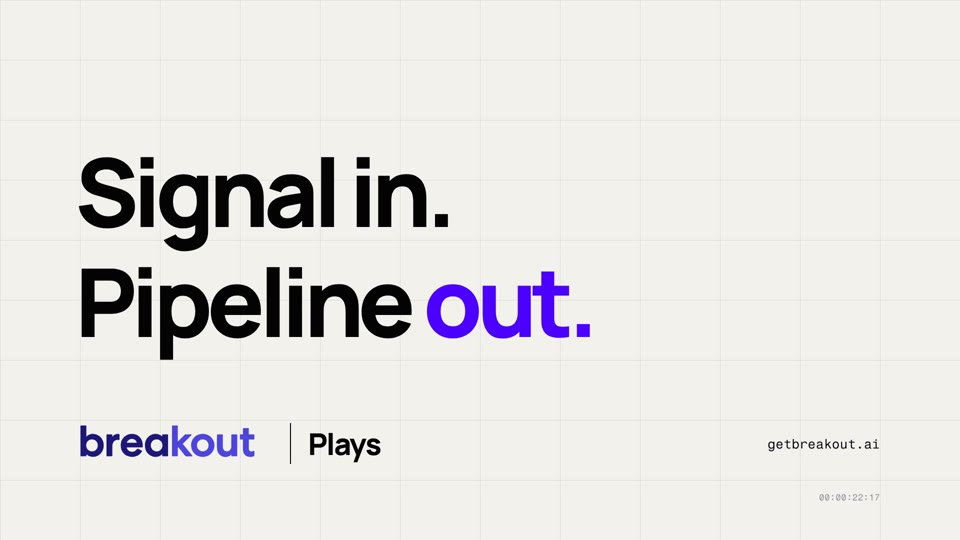
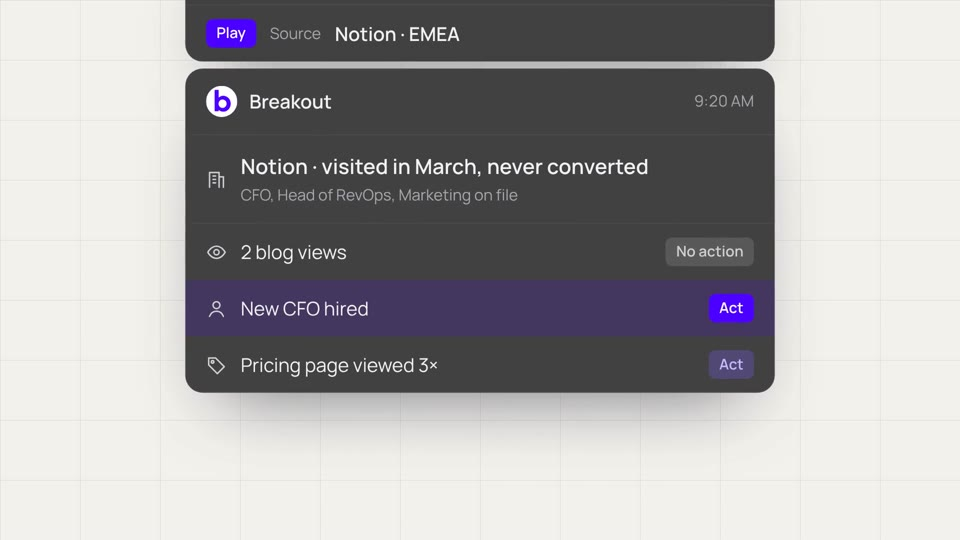
Plays launch round 2: just the cards, centred; no breadcrumbs or disclaimer; song from its first beat
Claude-Session: https://claude.ai/code/session_01KiAPnoACp1J2Pkh9Axh1Sx

diff --git a/videos/plays-launch/template.html b/videos/plays-launch/template.html
@@ -123,6 +123,10 @@
         .card .rw.sig, .card .rw.big { transition: none; }
         .card .row-hide { opacity: 0; }
         #flash { position: absolute; inset: 0; background: var(--ink); opacity: 0; }
+        /* just the cards: no words beside them, no index, timecode, disclaimer or email labels */
+        .word, #idx, #tc, #disc, #elabels { display: none !important; }
+        #cam .card { left: 620px; }
+        #cam #c-bk { left: 510px; }
       </style>
       <div id="root" data-composition-id="signal" data-width="1920" data-height="1080">
         <div id="gridH"></div><div id="gridV"></div>
@@ -267,14 +271,16 @@
 
           var cam = one("#cam");
           // [bar, focus rect in layout px, scale]: holds push in slowly, moves glide between cards
-          var CAMK = [[2.0, [160, 176, 680, 132], 1.5], [2.45, [160, 176, 680, 132], 1.58], [2.7, [160, 326, 680, 360], 1.38], [2.95, [160, 470, 680, 200], 1.68], [3.95, [160, 470, 680, 200], 1.74],
-                      [4.2, [160, 716, 680, 232], 1.55], [5.5, [160, 716, 680, 232], 1.63], [5.95, [0, 0, 1920, 1080], 1.0]];
+          var CAMK = [[2.0, [620, 176, 680, 132], 1.5], [2.45, [620, 176, 680, 132], 1.58], [2.7, [620, 326, 680, 360], 1.38], [2.95, [620, 470, 680, 200], 1.68], [3.95, [620, 470, 680, 200], 1.74],
+                      [4.2, [620, 716, 680, 232], 1.55], [5.5, [620, 716, 680, 232], 1.63], [5.95, [0, 0, 1920, 1080], 1.0]];
+          var PAIR = [-420, 0, 1];                                 // bars 6 to 8: the cards and the email side by side, centred together
           function camAt(t) {
             var b = t / BAR, k = CAMK;
-            function m(r, sc) { var cx = r[0] + r[2] / 2, cy = r[1] + r[3] / 2; return sc === 1 ? [0, 0, 1] : [(sc > 1.6 ? 615 : 650) - cx * sc, 560 - cy * sc, sc]; }
-            if (b < k[0][0] || b >= 6) return [0, 0, 1];
+            function m(r, sc) { var cx = r[0] + r[2] / 2, cy = r[1] + r[3] / 2; return sc === 1 ? [0, 0, 1] : [960 - cx * sc, 560 - cy * sc, sc]; }
+            if (b < k[0][0]) return [0, 0, 1];
+            if (b >= 6) return b < 8 ? PAIR : [0, 0, 1];
             for (var i = 0; i < k.length - 1; i++) if (b < k[i + 1][0]) {
-              var u = io((b - k[i][0]) / (k[i + 1][0] - k[i][0])), a = m(k[i][1], k[i][2]), c = m(k[i + 1][1], k[i + 1][2]);
+              var u = io((b - k[i][0]) / (k[i + 1][0] - k[i][0])), a = m(k[i][1], k[i][2]), c = i + 1 === k.length - 1 ? PAIR : m(k[i + 1][1], k[i + 1][2]);
               return [a[0] + (c[0] - a[0]) * u, a[1] + (c[1] - a[1]) * u, a[2] + (c[2] - a[2]) * u];
             }
             return [0, 0, 1];
@@ -293,7 +299,6 @@
             catch (e) { var d = one("#err"); d.textContent = "t=" + drv.t.toFixed(2) + " " + e.message + " | " + (e.stack || "").split("\n").slice(0, 3).join(" / "); d.style.display = "block"; }
           }
           function draw(t) {
-            if (on(t, 6, 8)) measure();   // measured live: fonts and layout are settled by then
             grid(t); index(t);
             var f = Math.floor(t * 30);
             tc.textContent = "00:00:" + pad(Math.floor(f / 30)) + ":" + pad(f % 30);
@@ -313,6 +318,7 @@
             // 02 / Play: the agent reads the account, card by card, then thinks
             var c = camAt(t);
             cam.style.transform = "translate(" + c[0].toFixed(2) + "px," + c[1].toFixed(2) + "px) scale(" + c[2].toFixed(4) + ")";
+            if (on(t, 6, 8)) measure();   // measured live, after this frame's camera: fonts and layout are settled by then
             snap(cRun, t, 2, 8); snap(cAcc, t, 2.5, 8);
             runChip.classList.toggle("on", t >= B(2.25));
             accLine.style.opacity = t >= B(2.62) ? 1 : 0;

diff --git a/docs/breakout-style.md b/docs/breakout-style.md
@@ -56,4 +56,5 @@ The films named in the verdicts now live as templates: `attention` → [`voice-l
 | 2026-11-11 | 23 | signals-launch (swiss-grid, v4) | 29.5 s: no headlines; a wordless pricing-page skeleton; a cleaner visitor card (logo, name, role; a listening row; each signal as a two-line row with an icon) with one signal every 1.2 s; one camera framing per beat with 0.18 s snaps instead of chasing tokens; tokens flash violet once fully typed || Closer. Owner: "use punchy electronic fred again type music instead of jazz. Add more color to the cursor cards -> like for eg -> how collaborative cursors look in figma. Fix the spacing on the signal cards. The agent opening should happen on the website while the cursor -> while Sarah is still browsing. It's happening right now. So you can remove the "Act now" thing from the card and transition to the same page visit -> where the agent is opening and acting. Then email." |
 | 2026-11-11 | 24 | signals-launch (swiss-grid, v5) | 28.6 s: a pink Figma-style multiplayer cursor and label; the signals card white with a pink outline and a coloured icon per signal, even 64 px rows; no "Act today"; the agent opens on the same page beside her card while she browses, then her cursor slides over to reply; hard cut to the email; a synthesised UK-house score (four-on-the-floor kick with pump, F minor chords, sub, vocal-like chops on each signal, a breakdown bar on the cut to the email) || The music. Owner: "make the music punchier, make it sound like a deep house track. avoid the treble heavy bell like beat" |
 | 2026-11-11 | 25 | signals-launch (swiss-grid, v5, deep house score) | Awaiting the owner's verdict. Same picture; the score rewritten as deep house: a heavier, rounder kick with a deeper pump (the bed ducks to 10 %), a rolling syncopated sub bassline, warm low-passed electric-piano stabs on F minor 9ths, a low pad, soft band-passed hats and shaker, a clap on 2 and 4; the vocal-like chops and the bright saw chords gone; a high-shelf cut on the master; the bell-like sound effects (glass ticks, chimes, sting) removed. Energy: 83 % under 150 Hz, almost nothing above 2 kHz | |
-| 2026-11-19 | 26 | plays-launch (swiss-grid, "Signal in. Pipeline out.") | Awaiting the owner's verdict. The approved Plays film, iterated: no "Breakout · Plays" small text; "Signal in. Pipeline out."; the detected changes (New CFO hired, Pricing page viewed 3×) at half speed with the camera closer; the owner's track (Sébastien Léger, "After That", 126 BPM, drop on bar 2) instead of the scratch bed, sfx kept. 26.7 s. Commercial track: internal only until licensed | |
+| 2026-11-19 | 26 | plays-launch (swiss-grid, "Signal in. Pipeline out.") | The approved Plays film, iterated: no "Breakout · Plays" small text; "Signal in. Pipeline out."; the detected changes (New CFO hired, Pricing page viewed 3×) at half speed with the camera closer; the owner's track (Sébastien Léger, "After That", 126 BPM, drop on bar 2) instead of the scratch bed, sfx kept. 26.7 s. Commercial track: internal only until licensed || Too much text around the cards. Owner: "remove the "reads", "thinks" etc text from the right and center align the cards so its just the cards with no text. Remove stuff like illustrative example, breadcrumbs. Start the soundtarck fromt he beginnng of the soundtrack" |
+| 2026-11-19 | 27 | plays-launch (round 2) | Awaiting the owner's verdict. Just the cards, centred: no "Reads." / "Thinks." / "Sends." / "Books.", no breadcrumbs, timecode, disclaimer or email labels; cards and email centred as a pair during the email; the song from its first beat on bar 0. 26.7 s | |

diff --git a/videos/plays-launch/README.md b/videos/plays-launch/README.md
@@ -8,14 +8,17 @@ The Plays launch film, made from the [`swiss-grid`](../../templates/swiss-grid/R
 
 ## Changes from the template's example
 
-Owner: "1\ Remove the Breakout plays small text entirely 2\ Reword to "Signal in. Pipeline out." 3\ Zoom in, slow a little on the changes we detect (New CFO hired, Pricing page viewed etc) 4\ Add this song to the soundtrack instead. Keep the sfx"
+Owners notes, round 1: "1\ Remove the Breakout plays small text entirely 2\ Reword to "Signal in. Pipeline out." 3\ Zoom in, slow a little on the changes we detect (New CFO hired, Pricing page viewed etc) 4\ Add this song to the soundtrack instead. Keep the sfx"
 
 | | |
 |---|---|
-| Small text | The "Breakout · Plays" tag (top right) and the small "Plays" index at the end are gone |
+| Small text | Gone: the "Breakout · Plays" tag, the index breadcrumbs ("01 / Signal"...), the timecode, "Illustrative example" and the labels under the email |
+| Just the cards | The words beside the cards ("Reads.", "Thinks.", "Sends.", "Books.") are gone; the cards sit centred (the camera frames them at the centre; during the email, cards and email are centred as a pair) |
 | Lockup | "Signal in. *Pipeline out.*" |
 | The detected changes | Bars 3 to 4 (the account card's rows: 2 blog views / No action, New CFO hired / Act, Pricing page viewed 3× / Act) play at half speed (`warp` in `film.json`) under a closer camera (1.68x to 1.74x); one extra bar, so later cuts stay on the song's downbeats |
-| Music | The owner's track at its own 126 BPM (the film moved from 128 to 126), from 3:29.8 so its drop (3:33.6) lands on bar 2, where the play starts; faded out under the lockup. Every cut lands within 60 ms of its beat |
+| Music | The owner's track at its own 126 BPM (the film moved from 128 to 126), from its very first beat (0.249 s) on bar 0; faded out under the lockup. Cuts land on its beats |
 | Sound effects | Kept, retimed through the slowed bar |
 
 26.7 s. `./render.sh` -> `renders/signal.mp4`.
+
+Round 2 (owner): "remove the "reads", "thinks" etc text from the right and center align the cards so its just the cards with no text. Remove stuff like illustrative example, breadcrumbs. Start the soundtarck fromt he beginnng of the soundtrack"
